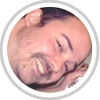
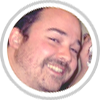
cleaned up some responsive stuff, added new author pic style

diff --git a/sass/parts/_header.scss b/sass/parts/_header.scss
@@ -1,7 +1,6 @@
 #header{
     padding: 20px 0 20px 0;
     @media screen and (max-width: 1040px){
-        height: auto;
         position: relative;
         padding-bottom: 10px;
     }
@@ -175,28 +174,20 @@ background: url('/images/search-dark.png') no-repeat 10px 6px;
 
 #headerbg {
   content: none;
-  background-image: url("../images/blog_logo2.png");
-  background-repeat: no-repeat;
-  background-position: center 30px;
-  background-size: 60%;
-  height: 3em;
+  content: url("../images/blog_logo2.png");
+  height: 148px;
+  border-radius: 0;
+  border-bottom: 6px solid #eee;
+
+  @media screen and (max-width: 600px) {
+    height: 100%;
+    width: 100%;
+  }
 }
 
 @media only screen and (-webkit-min-device-pixel-ratio: 2) {
-  #header {
-    padding: 0;
-  }
-
-  #headerbg {
-    background: url(../images/blog_logo2.png) repeat;
-    background-size: 60% 45%;
-    background-repeat: no-repeat;
-    background-position: 0.3em center;
-    height: 2em;
-  }
 
   ul#nav {
-    margin-top: -3em;
 
     li {
       height: 4em;
@@ -207,23 +198,18 @@ background: url('/images/search-dark.png') no-repeat 10px 6px;
       }
     }
   }
-
-  h2 a {
-    font-size: 0.5em;
-    line-height: 0.5em !important;
-  }
 }
 
 #nav {
   text-align: center;
   position: relative;
   margin: 0 auto 20px auto;
-  // border-bottom: 1px solid $strokeColor;
-  // background-image: url("/images/divider.png");
-  // background-repeat: no-repeat;
-  // background-size: 300px;
-  // background-position: 250px 80px;
-  // height: 100px;
+  width: 500px;
+  border-bottom: 6px solid #eee;
+
+  @media screen and (max-width: 600px) {
+    width: 100%;
+  }
 }
 
 ul#nav li {
@@ -240,7 +226,6 @@ ul#nav li {
     width: 110px;
     height: 40px;
     margin-right: 30px;
-    // text-align: center;
     padding-top: 20px;
     padding-bottom: 20px;
     color: #999;
@@ -251,6 +236,10 @@ ul#nav li {
     &:hover {
       color: #011d3d;
       font-style: normal;
+    }
+
+    @media screen and (max-width: 600px) {
+      margin-right: 5%;
     }
   }
 }

diff --git a/sass/screen.scss b/sass/screen.scss
@@ -54,7 +54,23 @@ article {
   .meta {
     text-align: center;
     margin: 0 auto;
+    padding: 22px 0;
     font-style: normal;
+    background-image: url(/images/brian8bit.png);
+    background-repeat: no-repeat;
+    background-size: 100px;
+    @include transition-property(background-image);
+    @include transition-duration(.15s);
+
+    &:hover {
+      background-image: url(/images/brian.png);
+      @include transition-property(background-image);
+      @include transition-duration(.15s);
+    }
+
+    &.comments {
+      background-image: none;
+    }
   }
 
   .entry-content {

diff --git a/sass/parts/_article.scss b/sass/parts/_article.scss
@@ -43,15 +43,12 @@ article{
 		}
 		.more-link{
 			display: block;
-			margin-top: 16px;
-			padding-left: 30px;
-			position: relative;
+			text-align: center;
 			&:before{
 				content: "\f061";
 				font: 1.3em $font-icon;
 				line-height: 1.6em;
-				position: absolute;
-				left: 0;
+				margin-right: 0.5em;
 			}
 		}
 		p, blockquote, ul, ol, dl, table, iframe, h1, h2, h3, h4, h5, h6, .video-container{

diff --git a/source/_includes/article.html b/source/_includes/article.html
@@ -23,7 +23,7 @@
 	  		<div class="date">{% include post/date.html %}{{ time }}</div>
 		</div>
 	</div>
-<div class="meta">
+<div class="meta comments">
 	{% if site.disqus_short_name and site.disqus_show_comment_count == true %}
 		<span class="comments"><a href="{{ root_url }}{{ post.url }}{{ page.url }}#disqus_thread">Comments</a></span>
 	{% endif %}
